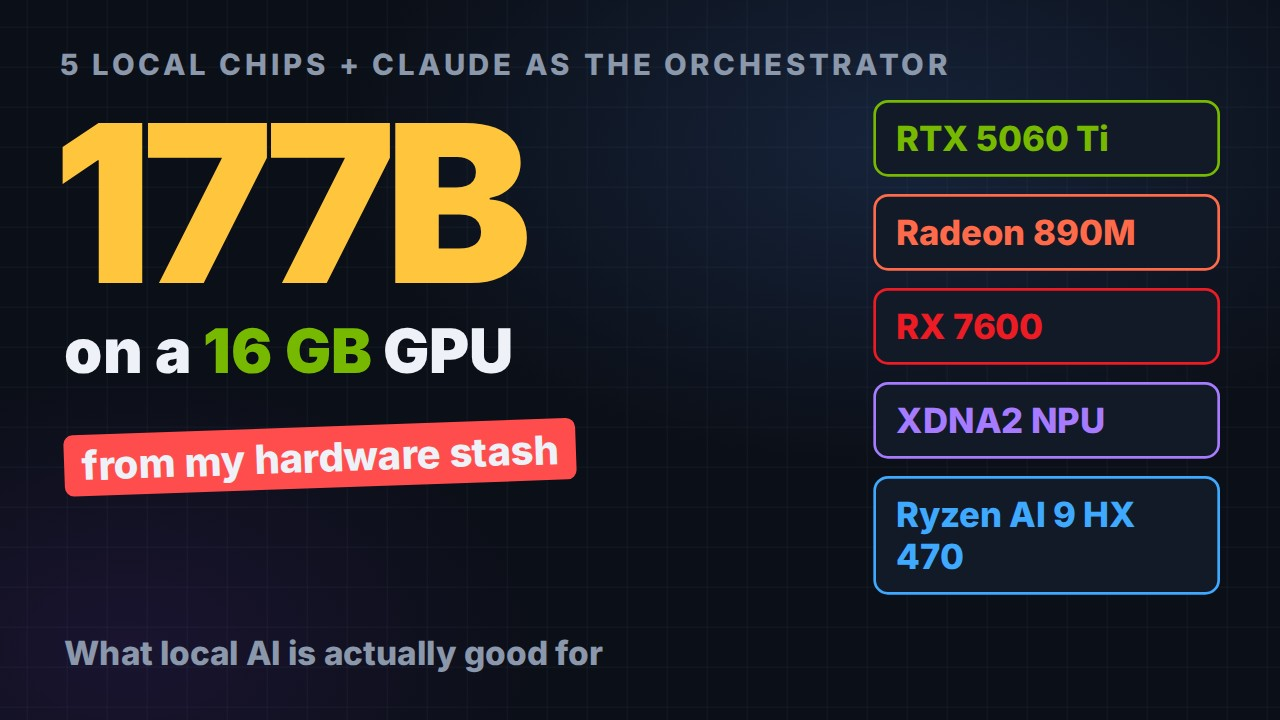
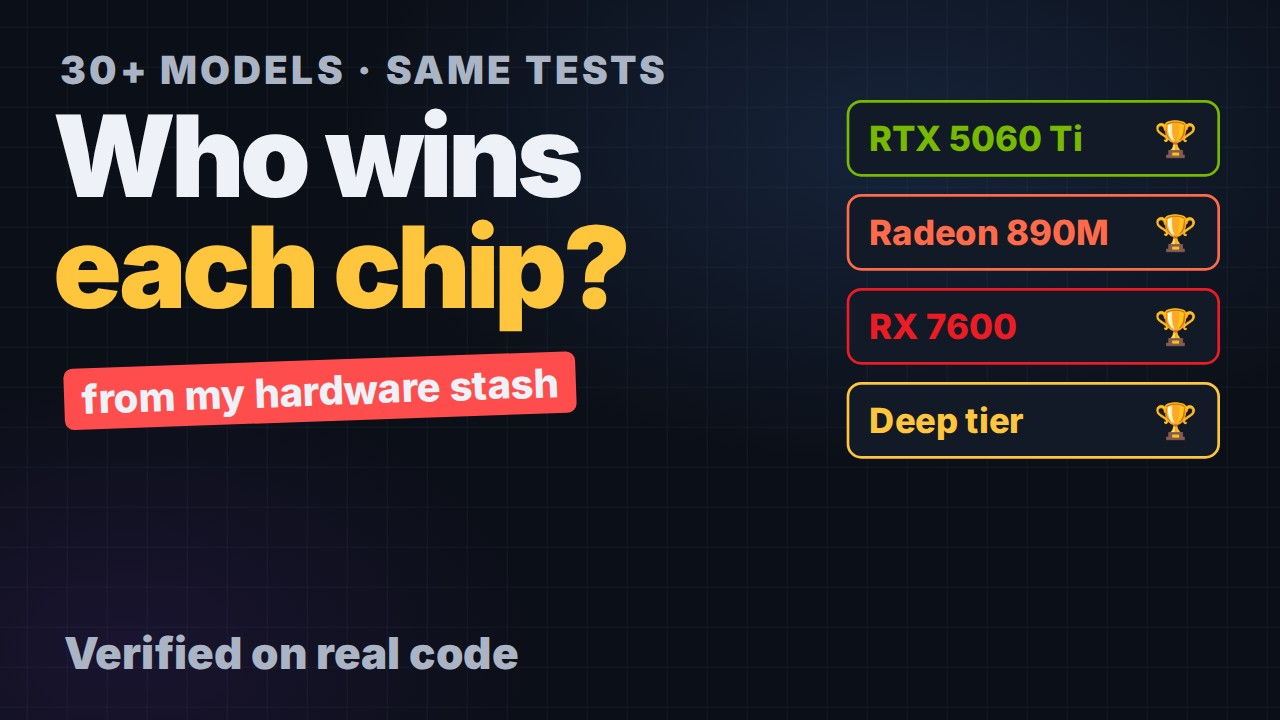
Page: five chips (CPU for scripts), a countdown for each of the four, deep mode as the bonus round

diff --git a/index.html b/index.html
@@ -124,12 +124,12 @@ footer .wrap{padding-top:20px;padding-bottom:32px}
 <div class="media"><div class="yt-embed"><iframe src="https://www.youtube-nocookie.com/embed/I3lvAa0zp_c?cc_load_policy=0&amp;rel=0" title="Video walkthrough" loading="lazy" allow="accelerometer; encrypted-media; gyroscope; picture-in-picture; fullscreen" referrerpolicy="strict-origin-when-cross-origin" allowfullscreen></iframe></div><a class="yt" href="https://youtu.be/I3lvAa0zp_c" rel="noopener">&#9654; Watch on YouTube</a></div>
 </div></header>
 <div class="wrap layout">
-<aside class="toc-side"><nav class="toc" aria-label="Contents"><p class="toc-title">Contents</p><ul><li><a href="#the-short-version">The short version</a></li><li><a href="#the-hardware">The hardware</a></li><li><a href="#the-contenders">The contenders</a></li><li><a href="#how-every-model-was-tested">How every model was tested</a></li><li><a href="#one-countdown-per-chip">One countdown per chip</a><ul><li><a href="#nvidia-rtx-5060-ti-16-gb-the-fast-tier">NVIDIA RTX 5060 Ti 16 GB: the fast tier</a></li><li><a href="#radeon-890m-igpu-the-best-tier">Radeon 890M iGPU: the best tier</a></li><li><a href="#radeon-rx-7600-8-gb-the-third-opinion">Radeon RX 7600 8 GB: the third opinion</a></li><li><a href="#deep-tier-on-demand-on-the-rtx-5060-ti-the-strongest-reviewer-for-background-jobs">Deep tier (on demand on the RTX 5060 Ti): the strongest reviewer, for background jobs</a></li><li><a href="#bonus-the-npu">Bonus: the NPU</a></li></ul></li><li><a href="#the-final-lineup">The final lineup</a></li><li><a href="#where-local-ai-pays-off">Where local AI pays off</a></li><li><a href="#whats-next">What's next</a></li><li><a href="#recreate-this-setup">Recreate this setup</a><ul><li><a href="#1-system-packages-needs-sudo-run-them-in-your-own-terminal-not-through-an-ai-agent">1. System packages (needs sudo; run them in your own terminal, not through an AI agent)</a></li><li><a href="#2-llamacpp-prebuilt-binaries-vulkan-for-amd-cuda-for-nvidia">2. llama.cpp prebuilt binaries (Vulkan for AMD, CUDA for NVIDIA)</a></li><li><a href="#3-models-hugging-face-resumable">3. Models (Hugging Face, resumable)</a></li><li><a href="#4-servers-systemd-user-units">4. Servers (systemd user units)</a></li><li><a href="#5-find-your-own-offload-point-for-a-big-moe">5. Find your own offload point for a big MoE</a></li><li><a href="#6-colibri-only-if-you-have-lots-of-ram-and-fast-or-multiple-nvme-drives">6. Colibri (only if you have lots of RAM and fast or multiple NVMe drives)</a></li><li><a href="#7-wire-it-into-claude-code-or-any-agent">7. Wire it into Claude Code (or any agent)</a></li><li><a href="#8-measure-speed-and-quality-before-switching-models">8. Measure speed AND quality before switching models</a></li></ul></li><li><a href="#lab-notebook-every-result-and-log">Lab notebook: every result and log</a></li><li><a href="#sources">Sources</a></li></ul></nav></aside>
+<aside class="toc-side"><nav class="toc" aria-label="Contents"><p class="toc-title">Contents</p><ul><li><a href="#the-short-version">The short version</a></li><li><a href="#the-hardware">The hardware</a></li><li><a href="#the-contenders">The contenders</a></li><li><a href="#how-every-model-was-tested">How every model was tested</a></li><li><a href="#one-countdown-per-chip">One countdown per chip</a><ul><li><a href="#nvidia-rtx-5060-ti-16-gb-the-fast-tier">NVIDIA RTX 5060 Ti 16 GB: the fast tier</a></li><li><a href="#radeon-890m-igpu-the-best-tier">Radeon 890M iGPU: the best tier</a></li><li><a href="#radeon-rx-7600-8-gb-the-third-opinion">Radeon RX 7600 8 GB: the third opinion</a></li><li><a href="#xdna2-npu-built-into-the-ryzen-chip-background-jobs">XDNA2 NPU (built into the Ryzen chip): background jobs</a></li><li><a href="#bonus-round-the-rtx-5060-tis-deep-mode-the-strongest-reviewer-for-background-jobs">Bonus round: the RTX 5060 Ti's deep mode, the strongest reviewer for background jobs</a></li></ul></li><li><a href="#the-final-lineup">The final lineup</a></li><li><a href="#where-local-ai-pays-off">Where local AI pays off</a></li><li><a href="#whats-next">What's next</a></li><li><a href="#recreate-this-setup">Recreate this setup</a><ul><li><a href="#1-system-packages-needs-sudo-run-them-in-your-own-terminal-not-through-an-ai-agent">1. System packages (needs sudo; run them in your own terminal, not through an AI agent)</a></li><li><a href="#2-llamacpp-prebuilt-binaries-vulkan-for-amd-cuda-for-nvidia">2. llama.cpp prebuilt binaries (Vulkan for AMD, CUDA for NVIDIA)</a></li><li><a href="#3-models-hugging-face-resumable">3. Models (Hugging Face, resumable)</a></li><li><a href="#4-servers-systemd-user-units">4. Servers (systemd user units)</a></li><li><a href="#5-find-your-own-offload-point-for-a-big-moe">5. Find your own offload point for a big MoE</a></li><li><a href="#6-colibri-only-if-you-have-lots-of-ram-and-fast-or-multiple-nvme-drives">6. Colibri (only if you have lots of RAM and fast or multiple NVMe drives)</a></li><li><a href="#7-wire-it-into-claude-code-or-any-agent">7. Wire it into Claude Code (or any agent)</a></li><li><a href="#8-measure-speed-and-quality-before-switching-models">8. Measure speed AND quality before switching models</a></li></ul></li><li><a href="#lab-notebook-every-result-and-log">Lab notebook: every result and log</a></li><li><a href="#sources">Sources</a></li></ul></nav></aside>
 <main class="doc">
-<details class="toc-mobile"><summary>Contents</summary><nav class="toc" aria-label="Contents"><ul><li><a href="#the-short-version">The short version</a></li><li><a href="#the-hardware">The hardware</a></li><li><a href="#the-contenders">The contenders</a></li><li><a href="#how-every-model-was-tested">How every model was tested</a></li><li><a href="#one-countdown-per-chip">One countdown per chip</a><ul><li><a href="#nvidia-rtx-5060-ti-16-gb-the-fast-tier">NVIDIA RTX 5060 Ti 16 GB: the fast tier</a></li><li><a href="#radeon-890m-igpu-the-best-tier">Radeon 890M iGPU: the best tier</a></li><li><a href="#radeon-rx-7600-8-gb-the-third-opinion">Radeon RX 7600 8 GB: the third opinion</a></li><li><a href="#deep-tier-on-demand-on-the-rtx-5060-ti-the-strongest-reviewer-for-background-jobs">Deep tier (on demand on the RTX 5060 Ti): the strongest reviewer, for background jobs</a></li><li><a href="#bonus-the-npu">Bonus: the NPU</a></li></ul></li><li><a href="#the-final-lineup">The final lineup</a></li><li><a href="#where-local-ai-pays-off">Where local AI pays off</a></li><li><a href="#whats-next">What's next</a></li><li><a href="#recreate-this-setup">Recreate this setup</a><ul><li><a href="#1-system-packages-needs-sudo-run-them-in-your-own-terminal-not-through-an-ai-agent">1. System packages (needs sudo; run them in your own terminal, not through an AI agent)</a></li><li><a href="#2-llamacpp-prebuilt-binaries-vulkan-for-amd-cuda-for-nvidia">2. llama.cpp prebuilt binaries (Vulkan for AMD, CUDA for NVIDIA)</a></li><li><a href="#3-models-hugging-face-resumable">3. Models (Hugging Face, resumable)</a></li><li><a href="#4-servers-systemd-user-units">4. Servers (systemd user units)</a></li><li><a href="#5-find-your-own-offload-point-for-a-big-moe">5. Find your own offload point for a big MoE</a></li><li><a href="#6-colibri-only-if-you-have-lots-of-ram-and-fast-or-multiple-nvme-drives">6. Colibri (only if you have lots of RAM and fast or multiple NVMe drives)</a></li><li><a href="#7-wire-it-into-claude-code-or-any-agent">7. Wire it into Claude Code (or any agent)</a></li><li><a href="#8-measure-speed-and-quality-before-switching-models">8. Measure speed AND quality before switching models</a></li></ul></li><li><a href="#lab-notebook-every-result-and-log">Lab notebook: every result and log</a></li><li><a href="#sources">Sources</a></li></ul></nav></details>
+<details class="toc-mobile"><summary>Contents</summary><nav class="toc" aria-label="Contents"><ul><li><a href="#the-short-version">The short version</a></li><li><a href="#the-hardware">The hardware</a></li><li><a href="#the-contenders">The contenders</a></li><li><a href="#how-every-model-was-tested">How every model was tested</a></li><li><a href="#one-countdown-per-chip">One countdown per chip</a><ul><li><a href="#nvidia-rtx-5060-ti-16-gb-the-fast-tier">NVIDIA RTX 5060 Ti 16 GB: the fast tier</a></li><li><a href="#radeon-890m-igpu-the-best-tier">Radeon 890M iGPU: the best tier</a></li><li><a href="#radeon-rx-7600-8-gb-the-third-opinion">Radeon RX 7600 8 GB: the third opinion</a></li><li><a href="#xdna2-npu-built-into-the-ryzen-chip-background-jobs">XDNA2 NPU (built into the Ryzen chip): background jobs</a></li><li><a href="#bonus-round-the-rtx-5060-tis-deep-mode-the-strongest-reviewer-for-background-jobs">Bonus round: the RTX 5060 Ti's deep mode, the strongest reviewer for background jobs</a></li></ul></li><li><a href="#the-final-lineup">The final lineup</a></li><li><a href="#where-local-ai-pays-off">Where local AI pays off</a></li><li><a href="#whats-next">What's next</a></li><li><a href="#recreate-this-setup">Recreate this setup</a><ul><li><a href="#1-system-packages-needs-sudo-run-them-in-your-own-terminal-not-through-an-ai-agent">1. System packages (needs sudo; run them in your own terminal, not through an AI agent)</a></li><li><a href="#2-llamacpp-prebuilt-binaries-vulkan-for-amd-cuda-for-nvidia">2. llama.cpp prebuilt binaries (Vulkan for AMD, CUDA for NVIDIA)</a></li><li><a href="#3-models-hugging-face-resumable">3. Models (Hugging Face, resumable)</a></li><li><a href="#4-servers-systemd-user-units">4. Servers (systemd user units)</a></li><li><a href="#5-find-your-own-offload-point-for-a-big-moe">5. Find your own offload point for a big MoE</a></li><li><a href="#6-colibri-only-if-you-have-lots-of-ram-and-fast-or-multiple-nvme-drives">6. Colibri (only if you have lots of RAM and fast or multiple NVMe drives)</a></li><li><a href="#7-wire-it-into-claude-code-or-any-agent">7. Wire it into Claude Code (or any agent)</a></li><li><a href="#8-measure-speed-and-quality-before-switching-models">8. Measure speed AND quality before switching models</a></li></ul></li><li><a href="#lab-notebook-every-result-and-log">Lab notebook: every result and log</a></li><li><a href="#sources">Sources</a></li></ul></nav></details>
 <p class="lead">Claude Code orchestrates; local models on spare hardware take the bulk, checkable work (scripts, log reading, screen reading, first-pass reviews), so Claude usage goes to the decisions. Every model below ran the same automated tests on a real production web app's code, pinned at one commit.</p>
 <h2 id="the-short-version">The short version<a class="headerlink" href="#the-short-version" title="Link to this section">#</a></h2>
-<p>A mini PC and two external GPUs from a hardware stash run four local AI tiers. More than 30 models from a dozen labs competed for them on the same tests. Here is who won each chip and why; every number is backed by the full results further down.</p>
+<p>A mini PC and two external GPUs from a hardware stash give five chips: the Ryzen CPU runs the scripts the models write, and the other four each run a local AI model. More than 30 models from a dozen labs competed for them on the same tests. Here is who won each chip and why; every number is backed by the full results further down.</p>
 <div class="table-wrap wide"><table>
 <thead>
 <tr>
@@ -163,7 +163,14 @@ footer .wrap{padding-top:20px;padding-bottom:32px}
 <td>6 other models</td>
 </tr>
 <tr>
-<td>RTX 5060 Ti, on demand</td>
+<td>XDNA2 NPU (in the Ryzen chip)</td>
+<td>Background script jobs (in reserve)</td>
+<td><strong>Qwen3.6-35B-A3B</strong> (FastFlowLM)</td>
+<td>20/23 scripts at ~18 tok/s; the only NPU model good enough to trust with scripts</td>
+<td>7 other models</td>
+</tr>
+<tr>
+<td>RTX 5060 Ti, deep mode (bonus round)</td>
 <td>Deep tier: long prompts, whole-commit reviews, background and overnight jobs</td>
 <td><strong>Muse Glimmer 30B</strong> (Meta), medium reasoning</td>
 <td>24/24 and 78/80 seeded bugs (80/80 at low reasoning); the only local model that caught a real review blocker; 64K context on the GPU alone</td>
@@ -462,7 +469,7 @@ footer .wrap{padding-top:20px;padding-bottom:32px}
 <p><strong>N-gram speculative decoding (<code>ngram-mod</code>) gave no gain</strong> on these tasks: the outputs are short and don't copy the input. It may still help whole-file rewrites; not tested yet.</p>
 </details>
 <h2 id="one-countdown-per-chip">One countdown per chip<a class="headerlink" href="#one-countdown-per-chip" title="Link to this section">#</a></h2>
-<p>Third place, second place, the winner, and why, for every chip.</p>
+<p>The home setup has five chips. One, the Ryzen CPU, is reserved for running the scripts the models write; the other four each need the right AI model. So: four countdowns (third place, second place, the winner, and why), plus a bonus round for the NVIDIA card's deep mode.</p>
 <h3 id="nvidia-rtx-5060-ti-16-gb-the-fast-tier">NVIDIA RTX 5060 Ti 16 GB: the fast tier<a class="headerlink" href="#nvidia-rtx-5060-ti-16-gb-the-fast-tier" title="Link to this section">#</a></h3>
 <ul>
 <li><strong>3rd place:</strong> gpt-oss-20b (OpenAI): 65/80 bugs and 7/9 unit tests, but ~128 tok/s and no vision.</li>
@@ -648,7 +655,32 @@ footer .wrap{padding-top:20px;padding-bottom:32px}
 <li>On the 80-item bug set Ornith-1.5-9B finds 0.825 at 35 tok/s, close to Gemma 4 (0.875) on an 8 GB card.</li>
 </ul>
 </details>
-<h3 id="deep-tier-on-demand-on-the-rtx-5060-ti-the-strongest-reviewer-for-background-jobs">Deep tier (on demand on the RTX 5060 Ti): the strongest reviewer, for background jobs<a class="headerlink" href="#deep-tier-on-demand-on-the-rtx-5060-ti-the-strongest-reviewer-for-background-jobs" title="Link to this section">#</a></h3>
+<h3 id="xdna2-npu-built-into-the-ryzen-chip-background-jobs">XDNA2 NPU (built into the Ryzen chip): background jobs<a class="headerlink" href="#xdna2-npu-built-into-the-ryzen-chip-background-jobs" title="Link to this section">#</a></h3>
+<ul>
+<li><strong>3rd place:</strong> Qwen3 4B Instruct: quick for its size (~17 tok/s) but wrote only 10 of 23 scripts.</li>
+<li><strong>2nd place:</strong> Gemma 4 E4B (Google): a little better overall (0.69), but slower (~12 tok/s) and 15 of 23 scripts.</li>
+<li><strong>Winner: Qwen3.6-35B-A3B through FastFlowLM: 20 of 23 scripts at about 18 tok/s, 0.78 on the suite.</strong></li>
+<li><strong>Why:</strong> It's the only NPU model good enough to trust with scripts. For now it waits in reserve, because every GPU is faster and it would pin 22 GB of RAM. <em>It beat 7 other models for this job.</em></li>
+</ul>
+<details>
+<summary>Full numbers for the NPU</summary>
+<p><strong>The NPU runs Qwen3.6-35B-A3B well enough to take script jobs.</strong> With FastFlowLM 1.0.9 it decodes at about 18 tok/s (the iGPU's best tier: ~22) and passed 20 of 23 script tasks, about as many as Gemma 4 (19 by default, 21 at max effort). It found fewer seeded bugs than the same model on the iGPU (15 vs 22 of 24) and prefills slowly (87 tok/s, so a 5K-token prompt takes about a minute). Moving script generation there would leave both GPUs free.</p>
+<ul>
+<li>The other NPU models are slower and weaker: Llama 3.1 8B 0.535, gpt-oss 20B 0.407 (20 tok/s). Gemma 4 12B and Qwen3.5 9B first scored 0 on scripts and tests. With a 4,096-token limit Gemma 4 12B passed 16 of 23 scripts and 5 of 9 test tasks, but at about 7 tok/s. Qwen3.5 9B still failed: its long answers turn into runs of spaces. A probe showed neither model thinks on short prompts, so the thinking theory was wrong. Of the smaller NPU models, only Gemma 4 E4B is interesting: weak at finding bugs (4 of 24) but 6 of 9 test tasks and 15 of 23 scripts, reading prompts at 421 tok/s (Qwen3.6 on the NPU: 87). Qwen3 4B scored 0.594 and Phi-4-mini 0.352. Qwen3 8B thinks on every answer (80–450 s per bug item) and was stopped; other thinking models were skipped.</li>
+</ul>
+<p><strong>The NPU needs no PPA or DKMS on Ubuntu 26.04.</strong> FastFlowLM's Ubuntu 26.04 package needs only <code>libxrt2</code> and <code>libxrt-npu2</code> from Ubuntu's archive (kernel 7.0 ships <code>amdxdna</code> and the 1.1 firmware), plus an unlimited memlock limit.</p>
+<h4 id="npu-amd-xdna2-amdxdna-driver-fw-11264">NPU (AMD XDNA2, <code>amdxdna</code> driver, fw 1.1.2.64)<a class="headerlink" href="#npu-amd-xdna2-amdxdna-driver-fw-11264" title="Link to this section">#</a></h4>
+<ul>
+<li><strong>Colibri:</strong> has an <code>--xdna</code> path, but it's experimental and Windows-only.</li>
+<li><strong>FastFlowLM 1.0.9 (working since 2026-10-18):</strong></li>
+<li>Install (root): <code>apt install libxrt2 libxrt-npu2 libxrt-utils-npu ./fastflowlm_1.0.9_ubuntu26.04_amd64.deb</code>. Ubuntu 26.04's own XRT packages are enough; no PPA, no DKMS on kernel 7.0.</li>
+<li>Memlock: the NPU maps large buffers, so set <code>memlock unlimited</code> (pam limits) and <code>LimitMEMLOCK=infinity</code> for <code>user@.service</code> if it runs as a user service. <code>flm validate</code> reports the limit.</li>
+<li><code>FLM_MODEL_PATH</code> puts models on the data disk; <code>flm serve &lt;tag&gt; -p &lt;port&gt;</code> exposes an OpenAI-style <code>/v1/chat/completions</code>, and reports speeds in <code>usage</code> (<code>prefill_speed_tps</code>, <code>decoding_speed_tps</code>) rather than llama.cpp's <code>timings</code>.</li>
+<li>The NPU kernels are closed source but free to use and redistribute unmodified (FastFlowLM's binary licence).</li>
+<li>Measured decode: Qwen3.6-35B-A3B ~18 tok/s, gpt-oss 20B ~20, Llama 3.1 8B ~12, Qwen3.5 9B ~9, Gemma 4 12B ~6. Prefill 87–375 tok/s, far below the GPUs.</li>
+</ul>
+</details>
+<h3 id="bonus-round-the-rtx-5060-tis-deep-mode-the-strongest-reviewer-for-background-jobs">Bonus round: the RTX 5060 Ti's deep mode, the strongest reviewer for background jobs<a class="headerlink" href="#bonus-round-the-rtx-5060-tis-deep-mode-the-strongest-reviewer-for-background-jobs" title="Link to this section">#</a></h3>
 <ul>
 <li><strong>3rd place:</strong> Qwen3.8-Flash-Next GSQ-RCO Coder IQ1_M (177B, experts in system RAM): 22/24 and 77/80 seeded bugs, the fastest prompt reading (<code>llm deep start coder</code>), but no real blocker found.</li>
 <li><strong>2nd place:</strong> Swift 1.5 Qwen3.8-Flash-Next GSQ-RCO IQ2_XS (UkisAI, 177B): 24/24 and 78/80 seeded bugs, but no real blocker found either, and it needs about 68 GB of system RAM (<code>llm deep start swift</code>).</li>
@@ -900,26 +932,6 @@ footer .wrap{padding-top:20px;padding-bottom:32px}
 <li>Smaller <code>-ncmoe</code> values (12, 16) run out of VRAM; 17 fits but isn't faster.</li>
 </ul>
 <p><strong>Qwen3.8-27B (dense, IQ4_XS + MTP draft) scored 0.942 on the 7-category suite, the best of the models that fit entirely on the GPU</strong> (only GLM-5.3-Flash, offloaded to RAM, scored higher). It's the only model to find all of the easy injected bugs (bugspot 1.00, against 0.60 for Qwen3.6). It runs at 62 tok/s and takes about 2.5× the wall time, which makes it a candidate for the <code>best</code> tier.</p>
-</details>
-<h3 id="bonus-the-npu">Bonus: the NPU<a class="headerlink" href="#bonus-the-npu" title="Link to this section">#</a></h3>
-<p>The XDNA2 NPU runs Qwen3.6-35B-A3B through FastFlowLM at about 18 tok/s and wrote 20 of 23 scripts, so it's ready for background script jobs; in daily use it stays idle because the GPU tiers are faster and it would pin 22 GB of RAM.</p>
-<details>
-<summary>Full numbers for the NPU</summary>
-<p><strong>The NPU runs Qwen3.6-35B-A3B well enough to take script jobs.</strong> With FastFlowLM 1.0.9 it decodes at about 18 tok/s (the iGPU's best tier: ~22) and passed 20 of 23 script tasks, about as many as Gemma 4 (19 by default, 21 at max effort). It found fewer seeded bugs than the same model on the iGPU (15 vs 22 of 24) and prefills slowly (87 tok/s, so a 5K-token prompt takes about a minute). Moving script generation there would leave both GPUs free.</p>
-<ul>
-<li>The other NPU models are slower and weaker: Llama 3.1 8B 0.535, gpt-oss 20B 0.407 (20 tok/s). Gemma 4 12B and Qwen3.5 9B first scored 0 on scripts and tests. With a 4,096-token limit Gemma 4 12B passed 16 of 23 scripts and 5 of 9 test tasks, but at about 7 tok/s. Qwen3.5 9B still failed: its long answers turn into runs of spaces. A probe showed neither model thinks on short prompts, so the thinking theory was wrong. Of the smaller NPU models, only Gemma 4 E4B is interesting: weak at finding bugs (4 of 24) but 6 of 9 test tasks and 15 of 23 scripts, reading prompts at 421 tok/s (Qwen3.6 on the NPU: 87). Qwen3 4B scored 0.594 and Phi-4-mini 0.352. Qwen3 8B thinks on every answer (80–450 s per bug item) and was stopped; other thinking models were skipped.</li>
-</ul>
-<p><strong>The NPU needs no PPA or DKMS on Ubuntu 26.04.</strong> FastFlowLM's Ubuntu 26.04 package needs only <code>libxrt2</code> and <code>libxrt-npu2</code> from Ubuntu's archive (kernel 7.0 ships <code>amdxdna</code> and the 1.1 firmware), plus an unlimited memlock limit.</p>
-<h4 id="npu-amd-xdna2-amdxdna-driver-fw-11264">NPU (AMD XDNA2, <code>amdxdna</code> driver, fw 1.1.2.64)<a class="headerlink" href="#npu-amd-xdna2-amdxdna-driver-fw-11264" title="Link to this section">#</a></h4>
-<ul>
-<li><strong>Colibri:</strong> has an <code>--xdna</code> path, but it's experimental and Windows-only.</li>
-<li><strong>FastFlowLM 1.0.9 (working since 2026-10-18):</strong></li>
-<li>Install (root): <code>apt install libxrt2 libxrt-npu2 libxrt-utils-npu ./fastflowlm_1.0.9_ubuntu26.04_amd64.deb</code>. Ubuntu 26.04's own XRT packages are enough; no PPA, no DKMS on kernel 7.0.</li>
-<li>Memlock: the NPU maps large buffers, so set <code>memlock unlimited</code> (pam limits) and <code>LimitMEMLOCK=infinity</code> for <code>user@.service</code> if it runs as a user service. <code>flm validate</code> reports the limit.</li>
-<li><code>FLM_MODEL_PATH</code> puts models on the data disk; <code>flm serve &lt;tag&gt; -p &lt;port&gt;</code> exposes an OpenAI-style <code>/v1/chat/completions</code>, and reports speeds in <code>usage</code> (<code>prefill_speed_tps</code>, <code>decoding_speed_tps</code>) rather than llama.cpp's <code>timings</code>.</li>
-<li>The NPU kernels are closed source but free to use and redistribute unmodified (FastFlowLM's binary licence).</li>
-<li>Measured decode: Qwen3.6-35B-A3B ~18 tok/s, gpt-oss 20B ~20, Llama 3.1 8B ~12, Qwen3.5 9B ~9, Gemma 4 12B ~6. Prefill 87–375 tok/s, far below the GPUs.</li>
-</ul>
 </details>
 <h2 id="the-final-lineup">The final lineup<a class="headerlink" href="#the-final-lineup" title="Link to this section">#</a></h2>
 <p><strong>Today's setup:</strong></p>
